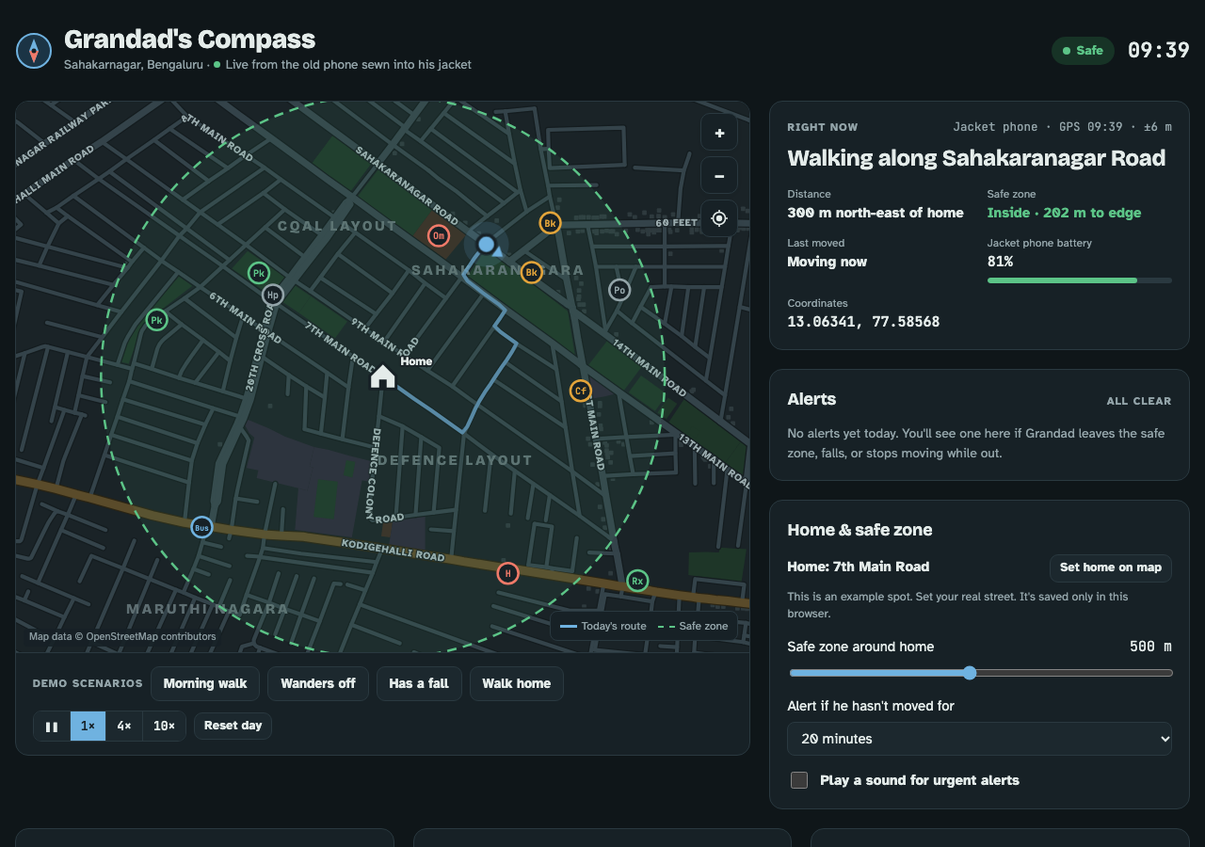
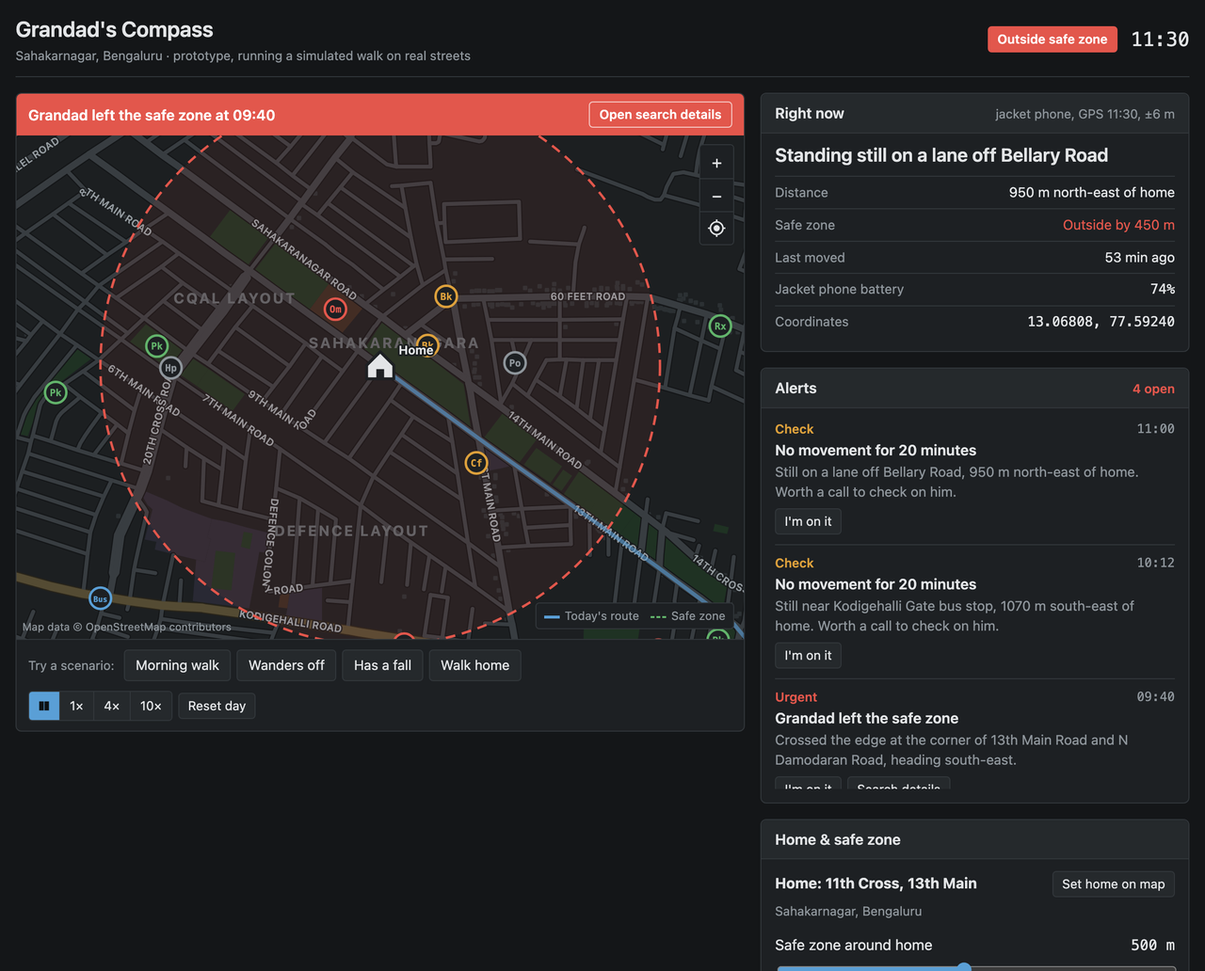
Plainer dark-only look
System fonts instead of three web fonts, sentence-case labels, flat panels
with header strips, simple alert rows and a full-width alert bar on the map.
New README screenshot.

diff --git a/index.html b/index.html
@@ -4,210 +4,182 @@
 <meta charset="utf-8">
 <meta name="viewport" content="width=device-width, initial-scale=1, viewport-fit=cover">
 <meta name="description" content="Family dashboard for keeping track of Grandad around Sahakarnagar, Bengaluru.">
-<meta name="theme-color" content="#EEF2F1" media="(prefers-color-scheme: light)">
-<meta name="theme-color" content="#0F1619" media="(prefers-color-scheme: dark)">
+<meta name="theme-color" content="#141618">
 <meta name="apple-mobile-web-app-capable" content="yes">
 <meta name="mobile-web-app-capable" content="yes">
 <meta name="apple-mobile-web-app-title" content="Grandad">
-<meta name="apple-mobile-web-app-status-bar-style" content="default">
+<meta name="apple-mobile-web-app-status-bar-style" content="black-translucent">
 <link rel="icon" href="icon.svg" type="image/svg+xml">
 <link rel="apple-touch-icon" href="apple-touch-icon.png">
 <link rel="manifest" href="manifest.webmanifest">
-<style>:root{color-scheme:light;padding-top:env(safe-area-inset-top,0px);padding-bottom:env(safe-area-inset-bottom,0px)}body{margin:0;font:14px system-ui,sans-serif;-webkit-text-size-adjust:100%}img{max-width:100%}[hidden]{display:none!important}</style>
+<style>:root{color-scheme:dark;padding-top:env(safe-area-inset-top,0px);padding-bottom:env(safe-area-inset-bottom,0px)}body{margin:0;font:14px system-ui,sans-serif;-webkit-text-size-adjust:100%}img{max-width:100%}[hidden]{display:none!important}</style>
 <title>Grandad's Compass</title>
-<link rel="preconnect" href="https://fonts.googleapis.com">
-<link rel="stylesheet" href="https://fonts.googleapis.com/css2?family=Atkinson+Hyperlegible:wght@400;700&family=Bricolage+Grotesque:opsz,wght@12..96,500;12..96,700;12..96,800&family=JetBrains+Mono:wght@400;600&display=swap">
 <style>
-/* Layout: a caregiver console. The live map of Sahakarnagar leads, status and alerts sit beside it, the day's record runs underneath. */
+/* dark only. map on the left, status + alerts on the right, the day's record below */
 :root{
-  --bg:#EEF2F1; --surface:#FFFFFF; --surface-2:#F5F8F7; --ink:#17232B; --muted:#5A6B72; --line:#D6DFDD;
-  --accent:#1F5F8B; --accent-soft:#DCE9F2;
-  --ok:#2E7D4F; --ok-soft:#DDF0E3; --warn:#A86A00; --warn-soft:#FBEBCB; --crit:#B83A2B; --crit-soft:#F8DEDA;
-  --land:#ECEEE8; --shop:#C9CCC0; --road:#FFFFFF; --road-edge:#CDD3CC; --road-major:#FBE3A6; --road-major-edge:#E2BF6B; --roadtext:#6E7C78;
-  --park:#CDE3BF; --water:#B5D3E3; --temple:#F1DCCB; --inst:#E0DCEA; --zone:#2E7D4F; --place:#9AA6A2;
-  --f-display:"Bricolage Grotesque", "Avenir Next", system-ui, sans-serif;
-  --f-body:"Atkinson Hyperlegible", "Segoe UI", system-ui, sans-serif;
-  --f-mono:"JetBrains Mono", ui-monospace, Menlo, monospace;
+  --bg:#141618; --surface:#1d2023; --surface-2:#25292c; --ink:#e2e4e6; --muted:#8e959b; --line:#32373b;
+  --accent:#5a9fd6;
+  --ok:#62b36b; --warn:#dca03c; --crit:#e2574c;
+  --land:#1c1f21; --shop:#2b3033; --road:#383d41; --road-edge:#141618; --road-major:#544b33; --road-major-edge:#28241a; --roadtext:#959ca1;
+  --park:#1f3223; --water:#1b3242; --temple:#372a22; --inst:#292934; --zone:#62b36b; --place:#5c6368;
+  --f-body:-apple-system, BlinkMacSystemFont, "Segoe UI", Roboto, Helvetica, Arial, sans-serif;
+  --f-mono:ui-monospace, Menlo, Consolas, monospace;
+  color-scheme:dark;
 }
-@media (prefers-color-scheme: dark){:root:not([data-theme="light"]){
-  --bg:#0F1619; --surface:#172126; --surface-2:#1C282E; --ink:#E4ECEA; --muted:#93A4A9; --line:#2A3940;
-  --accent:#6FB2E0; --accent-soft:#1B3445;
-  --ok:#5CC487; --ok-soft:#173326; --warn:#E3A43A; --warn-soft:#3A2C12; --crit:#F07A69; --crit-soft:#3E1D19;
-  --land:#1A2327; --shop:#2E3A3E; --road:#34434A; --road-edge:#141C1F; --road-major:#5A4B2A; --road-major-edge:#2A2414; --roadtext:#9AABAE;
-  --park:#1E3628; --water:#1D3A4C; --temple:#3A2C24; --inst:#2B2938; --zone:#5CC487; --place:#5E6E72; color-scheme:dark}}
-:root[data-theme="dark"]{
-  --bg:#0F1619; --surface:#172126; --surface-2:#1C282E; --ink:#E4ECEA; --muted:#93A4A9; --line:#2A3940;
-  --accent:#6FB2E0; --accent-soft:#1B3445;
-  --ok:#5CC487; --ok-soft:#173326; --warn:#E3A43A; --warn-soft:#3A2C12; --crit:#F07A69; --crit-soft:#3E1D19;
-  --land:#1A2327; --shop:#2E3A3E; --road:#34434A; --road-edge:#141C1F; --road-major:#5A4B2A; --road-major-edge:#2A2414; --roadtext:#9AABAE;
-  --park:#1E3628; --water:#1D3A4C; --temple:#3A2C24; --inst:#2B2938; --zone:#5CC487; --place:#5E6E72; color-scheme:dark}
 
 *{box-sizing:border-box}
-body{background:var(--bg);color:var(--ink);font-family:var(--f-body);font-size:15px;line-height:1.5}
-.app{max-width:1320px;margin:0 auto;padding-left:max(16px,env(safe-area-inset-left,0px));padding-right:max(16px,env(safe-area-inset-right,0px));padding-block:20px 40px;display:grid;grid-template-columns:minmax(0,1fr);gap:20px}
-h1,h2,h3{font-family:var(--f-display);text-wrap:balance;margin:0;letter-spacing:-.01em}
+body{background:var(--bg);color:var(--ink);font-family:var(--f-body);font-size:15px;line-height:1.45}
+.app{max-width:1240px;margin:0 auto;padding-left:max(16px,env(safe-area-inset-left,0px));padding-right:max(16px,env(safe-area-inset-right,0px));padding-block:0 40px;display:grid;grid-template-columns:minmax(0,1fr);gap:16px}
+h1,h2,h3{margin:0;font-weight:600}
 .mono{font-family:var(--f-mono);font-variant-numeric:tabular-nums}
-.label{font-size:11.5px;text-transform:uppercase;letter-spacing:.09em;color:var(--muted);font-weight:700}
+.label{font-size:13px;color:var(--muted)}
 button,select,input,textarea{font:inherit;color:inherit}
 button{cursor:pointer}
 a{color:var(--accent)}
-:focus-visible{outline:3px solid var(--accent);outline-offset:2px}
+:focus-visible{outline:2px solid var(--accent);outline-offset:2px}
 
-.top{display:flex;flex-wrap:wrap;align-items:center;gap:12px 20px;justify-content:space-between;position:sticky;top:env(safe-area-inset-top,0px);z-index:20;background:var(--bg);padding-block:8px}
+.top{display:flex;flex-wrap:wrap;align-items:center;gap:8px 20px;justify-content:space-between;position:sticky;top:env(safe-area-inset-top,0px);z-index:20;background:var(--bg);padding-block:14px 12px;border-bottom:1px solid var(--line)}
 body::before{content:"";position:fixed;inset:0 0 auto;height:env(safe-area-inset-top,0px);z-index:21;background:var(--bg)}
-.brand{display:flex;align-items:center;gap:12px}
-.brand svg{flex:none}
-.brand h1{font-size:28px;font-weight:800;line-height:1}
-.brand p{margin:3px 0 0;color:var(--muted);font-size:13.5px}
-.top-right{display:flex;align-items:center;gap:14px;flex-wrap:wrap}
-.clock{font-size:22px;font-weight:600}
-.pill{display:inline-flex;align-items:center;gap:7px;padding:5px 12px;border-radius:999px;font-weight:700;font-size:13.5px;white-space:nowrap}
-.pill::before{content:"";width:8px;height:8px;border-radius:50%;background:currentColor}
-.pill.ok{background:var(--ok-soft);color:var(--ok)}
-.pill.warn{background:var(--warn-soft);color:var(--warn)}
-.pill.crit{background:var(--crit-soft);color:var(--crit)}
-.pill.crit::before{animation:blink 1s steps(2) infinite}
-@keyframes blink{50%{opacity:.2}}
+.brand{min-width:0}
+.brand h1{font-size:22px}
+.brand p{margin:2px 0 0;color:var(--muted);font-size:13px}
+.top-right{display:flex;align-items:center;gap:14px}
+.clock{font-size:20px}
+.pill{display:inline-block;padding:3px 9px;border-radius:4px;font-weight:600;font-size:13px;white-space:nowrap;border:1px solid currentColor}
+.pill.ok{color:var(--ok)}
+.pill.warn{color:var(--warn)}
+.pill.crit{color:#fff;background:var(--crit);border-color:var(--crit)}
 
-.main{display:grid;grid-template-columns:minmax(0,1.75fr) minmax(0,1fr);gap:20px;align-items:start}
-.side{display:grid;gap:20px;min-width:0}
-.card{background:var(--surface);border:1px solid var(--line);border-radius:14px;padding:18px;min-width:0}
-.card h3{font-size:18px;font-weight:700}
-.card-head{display:flex;justify-content:space-between;align-items:baseline;gap:10px;margin-bottom:12px;flex-wrap:wrap}
+.main{display:grid;grid-template-columns:minmax(0,1.7fr) minmax(0,1fr);gap:16px;align-items:start}
+.side{display:grid;gap:16px;min-width:0}
+.card{background:var(--surface);border:1px solid var(--line);border-radius:6px;padding:12px 14px 14px;min-width:0}
+.card h3{font-size:15px}
+.card-head{display:flex;justify-content:space-between;align-items:baseline;gap:10px;margin:-12px -14px 12px;padding:9px 14px;border-bottom:1px solid var(--line);background:var(--surface-2);border-radius:6px 6px 0 0;flex-wrap:wrap}
 
 .mapcard{padding:0;overflow:hidden}
 .mapwrap{position:relative;background:var(--land)}
 #map{display:block;width:100%;aspect-ratio:4/3;max-width:100%;touch-action:pan-y;cursor:grab;user-select:none}
 #map.dragging{cursor:grabbing}
 #map.picking{cursor:crosshair}
-.banner{position:absolute;left:12px;right:64px;top:12px;background:var(--crit);color:var(--surface);border-radius:10px;padding:10px 14px;display:flex;gap:12px;align-items:center;justify-content:space-between;flex-wrap:wrap;font-weight:700;box-shadow:0 6px 20px rgb(0 0 0 / .18)}
-.banner button{background:var(--surface);color:var(--crit);border:0;border-radius:8px;padding:6px 12px;font-weight:700}
-.pickhint{position:absolute;left:12px;right:64px;top:12px;background:var(--ink);color:var(--surface);border-radius:10px;padding:10px 14px;font-weight:700}
-.zoom{position:absolute;right:12px;top:12px;display:grid;gap:6px}
-.zoom button{width:40px;height:40px;border-radius:10px;border:1px solid var(--line);background:var(--surface);font-weight:700;font-size:18px;display:grid;place-items:center;box-shadow:0 2px 8px rgb(0 0 0 / .08)}
-.zoom button[aria-pressed="true"]{background:var(--accent);color:var(--surface);border-color:var(--accent)}
-.legend{position:absolute;right:12px;bottom:12px;background:var(--surface);border:1px solid var(--line);border-radius:8px;padding:6px 10px;font-size:12px;color:var(--muted);display:flex;gap:12px;align-items:center}
-.legend i{display:inline-block;width:18px;height:0;border-top:3px solid var(--accent);vertical-align:middle;margin-right:5px}
+.banner{position:absolute;left:0;right:0;top:0;background:var(--crit);color:#fff;padding:8px 12px;display:flex;gap:12px;align-items:center;justify-content:space-between;flex-wrap:wrap;font-weight:600}
+.banner button{background:none;color:#fff;border:1px solid rgb(255 255 255 / .7);border-radius:4px;padding:3px 10px;font-weight:600;font-size:13px}
+.banner:not([hidden]) ~ .zoom{top:52px}
+.pickhint{position:absolute;left:0;right:0;top:0;background:var(--surface-2);border-bottom:1px solid var(--line);padding:8px 12px;font-weight:600}
+.zoom{position:absolute;right:10px;top:10px;display:grid;border:1px solid var(--line);border-radius:4px;overflow:hidden}
+.zoom button{width:34px;height:34px;border:0;background:var(--surface);font-size:17px;display:grid;place-items:center}
+.zoom button+button{border-top:1px solid var(--line)}
+.zoom button:hover{background:var(--surface-2)}
+.zoom button[aria-pressed="true"]{color:var(--accent)}
+.legend{position:absolute;right:10px;bottom:10px;background:var(--surface);border:1px solid var(--line);border-radius:4px;padding:4px 8px;font-size:12px;color:var(--muted);display:flex;gap:12px;align-items:center}
+.legend i{display:inline-block;width:16px;height:0;border-top:3px solid var(--accent);vertical-align:middle;margin-right:5px}
 .legend i.z{border-top:2px dashed var(--zone)}
-.attrib{position:absolute;left:8px;bottom:6px;font-size:11px;color:var(--muted);background:var(--surface);padding:1px 6px;border-radius:4px;opacity:.9}
-.mk-label{font-family:var(--f-body);font-size:12.5px;font-weight:700;fill:var(--ink);paint-order:stroke;stroke:var(--land);stroke-width:4px;stroke-linejoin:round}
+.attrib{position:absolute;left:6px;bottom:4px;font-size:11px;color:var(--muted)}
+.mk-label{font-family:var(--f-body);font-size:12.5px;font-weight:600;fill:var(--ink);paint-order:stroke;stroke:var(--land);stroke-width:4px;stroke-linejoin:round}
 #map.far .mk:not(.always) .mk-label{display:none}
-.road-name{font-family:var(--f-body);fill:var(--roadtext);letter-spacing:.05em;text-transform:uppercase;font-weight:700;paint-order:stroke;stroke:var(--land);stroke-linejoin:round}
-.place-name{font-family:var(--f-display);fill:var(--place);font-weight:800;letter-spacing:.18em;text-transform:uppercase}
+.road-name{font-family:var(--f-body);fill:var(--roadtext);letter-spacing:.04em;text-transform:uppercase;font-weight:600;paint-order:stroke;stroke:var(--land);stroke-linejoin:round}
+.place-name{font-family:var(--f-body);fill:var(--place);font-weight:700;letter-spacing:.15em;text-transform:uppercase}
 .pulse{transform-box:fill-box;transform-origin:center;animation:pulse 2s ease-out infinite}
-@keyframes pulse{from{transform:scale(.6);opacity:.55}to{transform:scale(2.4);opacity:0}}
+@keyframes pulse{from{transform:scale(.6);opacity:.5}to{transform:scale(2.2);opacity:0}}
 
-.controls{display:flex;flex-wrap:wrap;gap:10px 18px;align-items:center;justify-content:space-between;padding:14px 18px;border-top:1px solid var(--line)}
-.controls .grp{display:flex;flex-wrap:wrap;gap:8px;align-items:center}
-.btn{background:var(--surface-2);border:1px solid var(--line);border-radius:9px;padding:7px 13px;font-weight:700;font-size:14px}
-.btn:hover{border-color:var(--accent)}
-.btn.primary{background:var(--accent);border-color:var(--accent);color:var(--surface)}
-.btn.small{padding:4px 10px;font-size:13px}
-.seg{display:inline-flex;border:1px solid var(--line);border-radius:9px;overflow:hidden}
-.seg button{border:0;background:var(--surface-2);padding:6px 11px;font-weight:700;font-size:13px;font-family:var(--f-mono)}
+.controls{display:flex;flex-wrap:wrap;gap:10px 16px;align-items:center;justify-content:space-between;padding:10px 12px;border-top:1px solid var(--line)}
+.controls .grp{display:flex;flex-wrap:wrap;gap:6px;align-items:center}
+.controls .label{margin-right:4px}
+.btn{background:var(--surface-2);border:1px solid var(--line);border-radius:4px;padding:5px 11px;font-size:14px}
+.btn:hover{background:#2e3337}
+.btn.primary{background:var(--accent);border-color:var(--accent);color:#0d1114;font-weight:600}
+.btn.small{padding:3px 9px;font-size:13px}
+.seg{display:inline-flex;border:1px solid var(--line);border-radius:4px;overflow:hidden}
+.seg button{border:0;background:var(--surface-2);padding:5px 10px;font-size:13px}
 .seg button+button{border-left:1px solid var(--line)}
-.seg button[aria-pressed="true"]{background:var(--accent);color:var(--surface)}
+.seg button[aria-pressed="true"]{background:var(--accent);color:#0d1114;font-weight:600}
 
-.st-title{font-size:24px;font-weight:700;line-height:1.15;margin:10px 0 14px}
-.facts{display:grid;grid-template-columns:1fr 1fr;gap:12px 16px;margin:0}
-.facts div{min-width:0}
-.facts dt{font-size:12px;color:var(--muted)}
-.facts dd{margin:0;font-weight:700;font-size:15px;overflow-wrap:anywhere}
-.meter{height:6px;border-radius:3px;background:var(--line);margin-top:5px;overflow:hidden}
-.meter span{display:block;height:100%;border-radius:3px}
+.st-title{font-size:19px;line-height:1.25;margin:10px 0 10px}
+.facts{margin:0;display:grid}
+.facts > div{display:flex;justify-content:space-between;align-items:baseline;gap:12px;padding:6px 0;border-top:1px solid var(--line);min-width:0}
+.facts dt{font-size:13.5px;color:var(--muted);flex:none}
+.facts dd{margin:0;font-size:14px;text-align:right;overflow-wrap:anywhere}
+.facts .meter{display:none}
 
-.alerts{list-style:none;margin:0;padding:0;display:grid;gap:10px;max-height:380px;overflow:auto}
-.alert{border:1px solid var(--line);border-left:5px solid var(--muted);border-radius:10px;padding:10px 12px;background:var(--surface-2)}
-.alert.crit{border-left-color:var(--crit);background:var(--crit-soft)}
-.alert.warn{border-left-color:var(--warn);background:var(--warn-soft)}
-.alert.info{border-left-color:var(--ok)}
-.alert.acked{background:var(--surface-2);opacity:.72}
-.a-top{display:flex;justify-content:space-between;font-size:12px;color:var(--muted);gap:8px}
-.a-sev{font-weight:700;text-transform:uppercase;letter-spacing:.08em}
+.alerts{list-style:none;margin:0;padding:0;max-height:380px;overflow:auto}
+.alert{padding:9px 0 10px;border-top:1px solid var(--line)}
+.alert:first-child{border-top:0;padding-top:0}
+.a-top{display:flex;justify-content:space-between;gap:8px;font-size:13px;color:var(--muted)}
+.a-sev{font-weight:600}
 .alert.crit .a-sev{color:var(--crit)} .alert.warn .a-sev{color:var(--warn)} .alert.info .a-sev{color:var(--ok)}
-.alert strong{display:block;margin-top:2px}
+.alert strong{display:block;margin-top:1px;font-weight:600}
 .alert p{margin:2px 0 0;font-size:14px;color:var(--muted)}
-.a-act{display:flex;gap:8px;margin-top:8px;flex-wrap:wrap}
+.alert.acked{opacity:.6}
+.a-act{display:flex;gap:6px;margin-top:7px;flex-wrap:wrap}
 .empty{color:var(--muted);font-size:14px;margin:0}
-.count{background:var(--crit);color:var(--surface);border-radius:999px;padding:1px 9px;font-size:13px;font-weight:700}
+.count{color:var(--crit);font-size:13px;font-weight:600}
 
 .set{display:grid;gap:14px}
-.set .row{display:grid;gap:6px}
+.set .row{display:grid;gap:5px}
 .set .row-top{display:flex;justify-content:space-between;align-items:baseline;gap:8px}
-.set .hint{font-size:12.5px;color:var(--muted);margin:0}
+.set .hint{font-size:13px;color:var(--muted);margin:0}
 input[type=range]{width:100%;accent-color:var(--accent)}
-select,input[type=text],input[type=tel],textarea{background:var(--surface-2);border:1px solid var(--line);border-radius:8px;padding:7px 10px;width:100%}
-.toggle{display:flex;gap:10px;align-items:center;font-weight:700}
-.toggle input{width:18px;height:18px;accent-color:var(--accent)}
+select,input[type=text],input[type=tel],textarea{background:var(--bg);border:1px solid var(--line);border-radius:4px;padding:6px 8px;width:100%}
+.toggle{display:flex;gap:8px;align-items:center}
+.toggle input{width:16px;height:16px;accent-color:var(--accent)}
 
-.lower{display:grid;grid-template-columns:repeat(3,minmax(0,1fr));gap:20px;align-items:start}
-.stats{display:grid;grid-template-columns:repeat(4,minmax(0,1fr));gap:10px;margin-bottom:14px}
-.stat b{display:block;font-family:var(--f-display);font-size:22px;font-weight:700;font-variant-numeric:tabular-nums;line-height:1.1}
-.stat span{font-size:12px;color:var(--muted)}
-#chart text{font-family:var(--f-mono);font-size:9px;fill:var(--muted)}
-.note{font-size:12.5px;color:var(--muted);margin:8px 0 0}
+.lower{display:grid;grid-template-columns:repeat(3,minmax(0,1fr));gap:16px;align-items:start}
+.stats{display:grid;grid-template-columns:repeat(4,minmax(0,1fr));gap:8px;margin-bottom:12px}
+.stat b{display:block;font-size:20px;font-weight:600;font-variant-numeric:tabular-nums;line-height:1.15}
+.stat span{font-size:12.5px;color:var(--muted)}
+#chart text{font-family:var(--f-body);font-size:9px;fill:var(--muted)}
+.note{font-size:13px;color:var(--muted);margin:8px 0 0}
 .timeline{list-style:none;margin:0;padding:0;max-height:360px;overflow:auto}
-.timeline li{display:grid;grid-template-columns:52px 14px 1fr;gap:8px;align-items:start;padding:6px 0}
+.timeline li{display:grid;grid-template-columns:46px 12px 1fr;gap:8px;align-items:start;padding:5px 0;font-size:14px}
 .timeline time{font-family:var(--f-mono);font-size:13px;color:var(--muted);padding-top:1px}
-.timeline .dot{width:10px;height:10px;border-radius:50%;background:var(--accent);margin-top:6px}
+.timeline .dot{width:8px;height:8px;border-radius:50%;background:var(--accent);margin-top:7px}
 .timeline .zone .dot{background:var(--crit)}
 .timeline .back .dot{background:var(--ok)}
 .timeline .alert-ev .dot{background:var(--warn)}
 .timeline .example{color:var(--muted)}
 .timeline .example .dot{background:var(--line)}
 .find{display:grid;gap:10px}
-.find label{display:grid;gap:4px;font-size:13px;color:var(--muted);font-weight:700}
+.find label{display:grid;gap:3px;font-size:13px;color:var(--muted)}
+.find label input,.find label textarea{color:var(--ink)}
 .find textarea{resize:vertical;min-height:64px}
-#desc{min-height:170px;font-size:13.5px;line-height:1.45}
+#desc{min-height:170px;font-size:13.5px;line-height:1.4}
 .find .row2{display:grid;grid-template-columns:1fr 1fr;gap:10px}
-.find .acts{display:flex;gap:10px;align-items:center;flex-wrap:wrap}
-.copied{font-size:13px;color:var(--ok);font-weight:700}
-.sos{display:flex;gap:10px;align-items:center;background:var(--crit-soft);color:var(--crit);border-radius:10px;padding:8px 12px;font-weight:700;font-size:14px}
-.sos b{font-family:var(--f-mono);font-size:18px}
-
-.brand{min-width:0}
-.source::before{content:"";display:inline-block;width:7px;height:7px;border-radius:50%;background:var(--ok);margin-right:6px;vertical-align:1px}
+.find .acts{display:flex;gap:12px;align-items:center;flex-wrap:wrap;font-size:14px}
+.copied{font-size:13px;color:var(--ok)}
+.sos{font-size:14px;color:var(--muted)}
+.sos b{color:var(--crit);font-family:var(--f-mono);font-size:16px}
 
 @media (max-width:980px){.main{grid-template-columns:minmax(0,1fr)}.lower{grid-template-columns:minmax(0,1fr)}}
 @media (max-width:600px){
-  .app{gap:14px;padding-block:0 28px}
-  .top{gap:8px 12px;padding-block:10px}
-  .brand svg{width:32px;height:32px}
-  .brand h1{font-size:21px}
+  .app{gap:12px;padding-block:0 28px}
+  .top{gap:6px 12px;padding-block:10px}
+  .brand h1{font-size:19px}
   .brand p{font-size:12.5px}
-  .top-right{gap:10px}
   .clock{font-size:17px}
   #map{aspect-ratio:1/1}
   .legend{display:none}
-  .banner{left:8px;right:56px;top:8px;font-size:14px;padding:8px 10px}
-  .pickhint{left:8px;right:56px;top:8px;font-size:14px}
-  .zoom{right:8px;top:8px}
-  .controls{padding:12px}
+  .banner{font-size:14px}
   .controls .grp{width:100%}
   .controls .grp:first-child{display:grid;grid-template-columns:1fr 1fr}
   .controls .grp:first-child .label{grid-column:1/-1}
   .controls .grp:last-child{justify-content:space-between}
-  .btn{min-height:44px}
-  .btn.small{min-height:38px}
+  .btn{min-height:42px}
+  .btn.small{min-height:36px}
   .seg button{min-height:40px;padding:8px 14px}
-  .card{padding:16px}
-  .st-title{font-size:21px}
+  .zoom button{width:40px;height:40px}
   .alerts{max-height:none}
   .timeline{max-height:300px}
   .stats{grid-template-columns:repeat(2,minmax(0,1fr))}
   .find .row2{grid-template-columns:1fr}
   select,input[type=text],input[type=tel],textarea{font-size:16px}
 }
-@media (max-width:380px){.facts{grid-template-columns:1fr}}
-@media (prefers-reduced-motion:reduce){.pulse,.pill.crit::before{animation:none}}
+@media (prefers-reduced-motion:reduce){.pulse{animation:none}}
 </style>
 </head>
 <body>
 <div class="app">
   <header class="top">
     <div class="brand">
-      <svg width="40" height="40" viewBox="0 0 40 40" aria-hidden="true"><circle cx="20" cy="20" r="18" fill="var(--accent-soft)"/><circle cx="20" cy="20" r="18" fill="none" stroke="var(--accent)" stroke-width="2"/><path d="M20 7 L25 20 L20 33 L15 20 Z" fill="var(--accent)"/><path d="M20 20 L25 20 L20 33 L15 20 Z" fill="var(--crit)"/><circle cx="20" cy="20" r="2.5" fill="var(--surface)"/></svg>
-      <div><h1>Grandad's Compass</h1><p>Sahakarnagar, Bengaluru · <span class="source">Prototype · simulated walk on real streets</span></p></div>
+      <h1>Grandad's Compass</h1><p>Sahakarnagar, Bengaluru · prototype, running a simulated walk on real streets</p>
     </div>
     <div class="top-right">
       <span id="pill" class="pill ok">Safe</span>
@@ -249,7 +221,7 @@ select,input[type=text],input[type=tel],textarea{background:var(--surface-2);bor
       </div>
       <div class="controls">
         <div class="grp">
-          <span class="label">Demo scenarios</span>
+          <span class="label">Try a scenario:</span>
           <button class="btn" type="button" data-sc="routine">Morning walk</button>
           <button class="btn" type="button" data-sc="wander">Wanders off</button>
           <button class="btn" type="button" data-sc="fall">Has a fall</button>
@@ -269,7 +241,7 @@ select,input[type=text],input[type=tel],textarea{background:var(--surface-2);bor
 
     <div class="side">
       <section class="card" aria-live="polite">
-        <div class="card-head" style="margin-bottom:0"><span class="label">Right now</span><span class="mono" style="font-size:12.5px;color:var(--muted)" id="fix">GPS fix · ±6 m</span></div>
+        <div class="card-head" style="margin-bottom:0"><h3>Right now</h3><span class="label" id="fix">GPS fix · ±6 m</span></div>
         <h2 class="st-title" id="stTitle">At home</h2>
         <dl class="facts" id="facts"></dl>
       </section>
@@ -302,20 +274,20 @@ select,input[type=text],input[type=tel],textarea{background:var(--surface-2);bor
 
   <div class="lower">
     <section class="card">
-      <div class="card-head"><h3>Today</h3><span class="label">Steps per hour</span></div>
+      <div class="card-head"><h3>Today</h3><span class="label">steps per hour</span></div>
       <div class="stats" id="stats"></div>
       <svg id="chart" viewBox="0 0 340 150" width="100%" role="img" aria-label="Steps per hour today"></svg>
     </section>
 
     <section class="card">
-      <div class="card-head"><h3>Where he's been</h3><span class="label">Newest first</span></div>
+      <div class="card-head"><h3>Where he's been</h3><span class="label">newest first</span></div>
       <ul class="timeline" id="timeline"></ul>
     </section>
 
     <section class="card" id="findCard">
       <div class="card-head"><h3>If he goes missing</h3></div>
       <div class="find">
-        <div class="sos">Police &amp; emergency in India <b>112</b></div>
+        <div class="sos">Police and emergency in India: <b>112</b></div>
         <div class="row2">
           <label>Name <input type="text" id="pName" value="Grandad"></label>
           <label>Age <input type="text" id="pAge" value="84"></label>
@@ -689,8 +661,8 @@ function render(){
     <div><dt>Safe zone</dt><dd style="color:${S.inside ? "var(--ok)" : "var(--crit)"}">${S.inside ? `Inside · ${toEdge} m to edge` : `Outside by ${-toEdge} m`}</dd></div>
     <div><dt>Last moved</dt><dd>${S.state === "walking" ? "Moving now" : still < 1 ? "Just now" : still + " min ago"}</dd></div>
     <div><dt>Jacket phone battery</dt><dd class="mono">${bat}%</dd><div class="meter"><span style="width:${bat}%;background:${bat < 20 ? "var(--crit)" : "var(--ok)"}"></span></div></div>
-    <div style="grid-column:1/-1"><dt>Coordinates</dt><dd class="mono" style="font-weight:600">${llText(S.pos)}</dd></div>`;
-  $("#fix").textContent = `Jacket phone · GPS ${fmt(S.t)} · ±${S.state === "home" ? 12 : 6} m`;
+    <div style="grid-column:1/-1"><dt>Coordinates</dt><dd class="mono">${llText(S.pos)}</dd></div>`;
+  $("#fix").textContent = `jacket phone, GPS ${fmt(S.t)}, ±${S.state === "home" ? 12 : 6} m`;
   const ll = toLL(S.pos); $("#gmaps").href = `https://www.google.com/maps/search/?api=1&query=${ll.lat.toFixed(6)},${ll.lon.toFixed(6)}`;
 
   if (S.alertVer !== lastAlertVer){ lastAlertVer = S.alertVer; renderAlerts(); }
@@ -700,7 +672,7 @@ function render(){
 function esc(s){ return String(s).replace(/[&<>"]/g, c => ({"&":"&amp;","<":"&lt;",">":"&gt;",'"':"&quot;"}[c])); }
 function renderAlerts(){
   const list = $("#alerts"), open = S.alerts.filter(a => !a.ack).length;
-  $("#alertCount").innerHTML = open ? `<span class="count">${open} open</span>` : `<span class="label">All clear</span>`;
+  $("#alertCount").innerHTML = open ? `<span class="count">${open} open</span>` : `<span class="label" style="color:var(--ok)">All clear</span>`;
   if (!S.alerts.length){ list.innerHTML = `<li><p class="empty">No alerts yet today. You'll see one here if ${esc(who())} leaves the safe zone, falls, or stops moving while out.</p></li>`; return; }
   const sevName = {crit: "Urgent", warn: "Check", info: "Update"};
   list.innerHTML = S.alerts.slice().reverse().map(a => `
